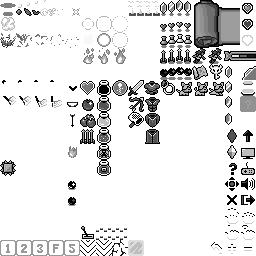
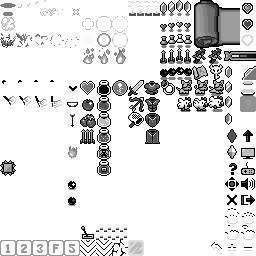
Add Pet Chicken
added chicken sprite to main sheet.
improved dog sprite with a transparent ground shadow.

changed ActorType Doggo to Pet.
this was done because pet actors are all functionally the same.
the only difference is their animation frames...
which can be set by checking the value of saveData.petType.
updated various code that referenced Doggo value to use Pet value.

changed doggoMove and doggoIdle animationGroups to petMove and petIdle.
updated SetAnimGroup() to work with new pet fields.

added PetChicken value to MenuItemType enum.
updated MenuItem.SetType() with path for PetChicken.
created Functions_Animation.SetPetAnimList().
updated various paths to handle PetChicken enum value.
updated the pet advetisements to display chicken.

playtested, pet chicken is working as expected.

Changed region(s): [[0.6875, 0.3125, 0.875, 0.4375], [0.0625, 0.0312, 0.1562, 0.0625]]

diff --git a/GameClasses/Functions_ActorAnimationList.cs b/GameClasses/Functions_ActorAnimationList.cs
@@ -48,11 +48,11 @@ namespace DungeonRun
             {
                 Actor.animGroup = Actor.animList.fairy;
             }
-            else if(Actor.type == ActorType.Doggo)
+            else if(Actor.type == ActorType.Pet)
             {
-                if (Actor.state == ActorState.Move) { Actor.animGroup = Actor.animList.doggoMove; }
-                else if (Actor.state == ActorState.Dash) { Actor.animGroup = Actor.animList.doggoMove; }
-                else { Actor.animGroup = Actor.animList.doggoIdle; }
+                if (Actor.state == ActorState.Move) { Actor.animGroup = Actor.animList.petMove; }
+                else if (Actor.state == ActorState.Dash) { Actor.animGroup = Actor.animList.petMove; }
+                else { Actor.animGroup = Actor.animList.petIdle; }
             }
         }
 
@@ -71,8 +71,7 @@ namespace DungeonRun
         }
 
         static Functions_ActorAnimationList()
-        {
-            //create/populate Actor's AnimationList
+        {   //create/populate Actor's AnimationList
             actorAnims = new ActorAnimationList();
 
             //idle, move, dash, & interact lists
@@ -143,19 +142,35 @@ namespace DungeonRun
             actorAnims.fairy.right = new List<Byte4> { new Byte4(12, 3, 0, 0), new Byte4(13, 3, 0, 0) };
             actorAnims.fairy.left = new List<Byte4> { new Byte4(12, 3, 1, 0), new Byte4(13, 3, 1, 0) };
 
-            //doggo idle animation
-            actorAnims.doggoIdle = new AnimationGroup();
-            actorAnims.doggoIdle.down = new List<Byte4> { new Byte4(11, 5, 0, 0), new Byte4(12, 5, 0, 0) };
-            actorAnims.doggoIdle.up = new List<Byte4> { new Byte4(11, 5, 1, 0), new Byte4(12, 5, 1, 0) };
-            actorAnims.doggoIdle.right = new List<Byte4> { new Byte4(11, 5, 0, 0), new Byte4(12, 5, 0, 0) };
-            actorAnims.doggoIdle.left = new List<Byte4> { new Byte4(11, 5, 1, 0), new Byte4(12, 5, 1, 0) };
-            //doggo move animation
-            actorAnims.doggoMove = new AnimationGroup();
-            actorAnims.doggoMove.down = new List<Byte4> { new Byte4(12, 5, 0, 0), new Byte4(13, 5, 0, 0) };
-            actorAnims.doggoMove.up = new List<Byte4> { new Byte4(12, 5, 1, 0), new Byte4(13, 5, 1, 0) };
-            actorAnims.doggoMove.right = new List<Byte4> { new Byte4(12, 5, 0, 0), new Byte4(13, 5, 0, 0) };
-            actorAnims.doggoMove.left = new List<Byte4> { new Byte4(12, 5, 1, 0), new Byte4(13, 5, 1, 0) };
+            //pet idle animation (defaults to dog)
+            actorAnims.petIdle = new AnimationGroup();
+            actorAnims.petIdle.down = new List<Byte4> { new Byte4(11, 5, 0, 0), new Byte4(12, 5, 0, 0) };
+            actorAnims.petIdle.up = new List<Byte4> { new Byte4(11, 5, 1, 0), new Byte4(12, 5, 1, 0) };
+            actorAnims.petIdle.right = new List<Byte4> { new Byte4(11, 5, 0, 0), new Byte4(12, 5, 0, 0) };
+            actorAnims.petIdle.left = new List<Byte4> { new Byte4(11, 5, 1, 0), new Byte4(12, 5, 1, 0) };
+            //pet move animation (defaults to dog)
+            actorAnims.petMove = new AnimationGroup();
+            actorAnims.petMove.down = new List<Byte4> { new Byte4(12, 5, 0, 0), new Byte4(13, 5, 0, 0) };
+            actorAnims.petMove.up = new List<Byte4> { new Byte4(12, 5, 1, 0), new Byte4(13, 5, 1, 0) };
+            actorAnims.petMove.right = new List<Byte4> { new Byte4(12, 5, 0, 0), new Byte4(13, 5, 0, 0) };
+            actorAnims.petMove.left = new List<Byte4> { new Byte4(12, 5, 1, 0), new Byte4(13, 5, 1, 0) };
+        }
 
+        public static void SetPetAnimList()
+        {   //create a variable that represents the Y frame of the pet animList
+            byte Y = 5; //defaults to dog
+            //set the variable based on the hero's current pet type
+            if(PlayerData.current.petType == MenuItemType.PetStinkyDog) { Y = 5; }
+            else if (PlayerData.current.petType == MenuItemType.PetChicken) { Y = 6; }
+            //set the Y frame for the pet animLists
+            actorAnims.petIdle.down =   new List<Byte4> { new Byte4(11, Y, 0, 0), new Byte4(12, Y, 0, 0) };
+            actorAnims.petIdle.up =     new List<Byte4> { new Byte4(11, Y, 1, 0), new Byte4(12, Y, 1, 0) };
+            actorAnims.petIdle.right =  new List<Byte4> { new Byte4(11, Y, 0, 0), new Byte4(12, Y, 0, 0) };
+            actorAnims.petIdle.left =   new List<Byte4> { new Byte4(11, Y, 1, 0), new Byte4(12, Y, 1, 0) };
+            actorAnims.petMove.down =   new List<Byte4> { new Byte4(12, Y, 0, 0), new Byte4(13, Y, 0, 0) };
+            actorAnims.petMove.up =     new List<Byte4> { new Byte4(12, Y, 1, 0), new Byte4(13, Y, 1, 0) };
+            actorAnims.petMove.right =  new List<Byte4> { new Byte4(12, Y, 0, 0), new Byte4(13, Y, 0, 0) };
+            actorAnims.petMove.left =   new List<Byte4> { new Byte4(12, Y, 1, 0), new Byte4(13, Y, 1, 0) };
         }
 
     }

diff --git a/GameClasses/Functions_Actor.cs b/GameClasses/Functions_Actor.cs
@@ -244,10 +244,7 @@ namespace DungeonRun
         public static void SetHerosPet()
         {   //set the hero's pet to be active or inactive
             Pool.herosPet.active = PlayerData.current.hasPet;
-            //translate menuItemType value to actor.type value for hero's pet
-            if (PlayerData.current.petType == MenuItemType.PetStinkyDog)
-            { SetType(Pool.herosPet, ActorType.Doggo); }
-            //expand this to handle other pet types
+            Functions_ActorAnimationList.SetPetAnimList();
         }
 
 
@@ -344,7 +341,7 @@ namespace DungeonRun
                 Actor.sfxDeath = Assets.sfxHeartPickup;
                 Actor.compMove.grounded = false; //actor flys in air
             }
-            else if (Type == ActorType.Doggo)
+            else if (Type == ActorType.Pet)
             {   //non-combatant actor
                 Actor.aiType = ActorAI.Basic;
                 Actor.enemy = false;
@@ -353,9 +350,9 @@ namespace DungeonRun
                 ResetActorLoadout(Actor);
                 Actor.walkSpeed = 0.25f;
                 Actor.dashSpeed = 0.5f;
-                //set actor sound effects
-                Actor.sfxDash = null; //bark sound
-                Actor.sfxHit = null; //bark sound
+                //clear actor sound effects
+                Actor.sfxDash = null;
+                Actor.sfxHit = null;
                 Actor.sfxDeath = null;
                 Actor.chaseRadius = 16 * 10; //large chase radius
             }

diff --git a/GameClasses/DataClasses.cs b/GameClasses/DataClasses.cs
@@ -197,7 +197,7 @@ namespace DungeonRun
             hero = actorPool[0];
             Functions_Actor.SetType(hero, ActorType.Hero);
             herosPet = actorPool[1];
-            Functions_Actor.SetType(herosPet, ActorType.Doggo);
+            Functions_Actor.SetType(herosPet, ActorType.Pet);
             //create the hero's shadow + rec
             heroShadow = new ComponentSprite(Assets.mainSheet, new Vector2(0, 0), new Byte4(0, 1, 0, 0), new Point(16, 8));
             heroShadow.zOffset = -16;
@@ -475,8 +475,8 @@ namespace DungeonRun
         //pickup, hold, carry, drag, etc...
 
         public AnimationGroup fairy;
-        public AnimationGroup doggoIdle;
-        public AnimationGroup doggoMove;
+        public AnimationGroup petIdle;
+        public AnimationGroup petMove;
     }
 
     public class Room

diff --git a/GameClasses/Functions_Collision.cs b/GameClasses/Functions_Collision.cs
@@ -152,7 +152,7 @@ namespace DungeonRun
                 {   //actors cannot collide with themselves
                     if (Actor != Pool.actorPool[i])
                     {   //remove doggo from actor vs actor collision checking
-                        if(Actor.type == ActorType.Doggo || Pool.actorPool[i].type == ActorType.Doggo) { }
+                        if(Actor.type == ActorType.Pet || Pool.actorPool[i].type == ActorType.Pet) { }
                         //only check collisions between actors & hero
                         else if (Actor == Pool.hero || Pool.actorPool[i] == Pool.hero)
                         {   //check for overlap

diff --git a/GameClasses/Enumerators.cs b/GameClasses/Enumerators.cs
@@ -48,7 +48,7 @@ namespace DungeonRun
 
     
 
-    public enum ActorType { Hero, Blob, Boss, Fairy, Doggo }
+    public enum ActorType { Hero, Blob, Boss, Fairy, Pet }
 
     public enum ActorState { Idle, Move, Dash, Interact, Attack, Use, Hit, Dead, Reward }
 
@@ -139,7 +139,7 @@ namespace DungeonRun
         WeaponSword, WeaponBow, WeaponNet, //WeaponStaff, //WeaponAxe
         ArmorCloth, ArmorChest, ArmorCape, ArmorRobe, //Armor5,
         EquipmentRing, EquipmentPearl, EquipmentNecklace, EquipmentGlove, EquipmentPin,
-        PetStinkyDog,
+        PetStinkyDog, PetChicken
     }
 
     public enum Dialog

diff --git a/GameClasses/Functions_MenuItem.cs b/GameClasses/Functions_MenuItem.cs
@@ -271,6 +271,13 @@ namespace DungeonRun
                 MenuItem.compAnim.currentAnimation = new List<Byte4> { new Byte4(11, 5, 0, 0) };
                 MenuItem.price = 0;
             }
+            else if (Type == MenuItemType.PetChicken)
+            {
+                MenuItem.name = "Friendly Chicken";
+                MenuItem.description = "A friendly chicken.";
+                MenuItem.compAnim.currentAnimation = new List<Byte4> { new Byte4(11, 6, 0, 0) };
+                MenuItem.price = 0;
+            }
 
             #endregion
 

diff --git a/GameClasses/ScreenVendor.cs b/GameClasses/ScreenVendor.cs
@@ -384,13 +384,11 @@ namespace DungeonRun
 
                 #region Pets
 
-                else if (Item.type == MenuItemType.PetStinkyDog)
-                {   //we can handle all pets types here
-                    CompleteAdoption(Item);
-                }
+                else if (Item.type == MenuItemType.PetStinkyDog
+                    || Item.type == MenuItemType.PetChicken)
+                { CompleteAdoption(Item); }
 
                 #endregion
-
 
 
             } //else, hero doesn't have enough gold to purchase the item

diff --git a/GameClasses/Functions_Battle.cs b/GameClasses/Functions_Battle.cs
@@ -90,7 +90,7 @@ namespace DungeonRun
 
         public static void Damage(Actor Actor, byte Damage, float Force, Direction Direction)
         {   //certain actors take no damage
-            if (Actor.type == ActorType.Fairy || Actor.type == ActorType.Doggo)
+            if (Actor.type == ActorType.Fairy || Actor.type == ActorType.Pet)
             { Damage = 0; } 
             //only damage/hit/push actors not in the hit state
             if (Actor.state != ActorState.Hit)

diff --git a/GameClasses/Functions_RoomObject.cs b/GameClasses/Functions_RoomObject.cs
@@ -136,7 +136,8 @@ namespace DungeonRun
             }
             else if (VendorType == ObjType.VendorPets)
             {   //add all the pets from the main sheet
-                objRef.compAnim.currentAnimation.Add(new Byte4(11, 5, 0, 0)); //dog1
+                objRef.compAnim.currentAnimation.Add(new Byte4(11, 5, 0, 0)); //stinky dog
+                objRef.compAnim.currentAnimation.Add(new Byte4(11, 6, 0, 0)); //chicken
             }
 
             #endregion

diff --git a/GameClasses/WidgetForSale.cs b/GameClasses/WidgetForSale.cs
@@ -177,6 +177,7 @@ namespace DungeonRun
             else if (VendorType == ObjType.VendorPets)
             {
                 Functions_MenuItem.SetType(MenuItemType.PetStinkyDog, menuItems[0]);
+                Functions_MenuItem.SetType(MenuItemType.PetChicken, menuItems[1]);
                 return; //prevents pet's cost from being displayed
             }
 
